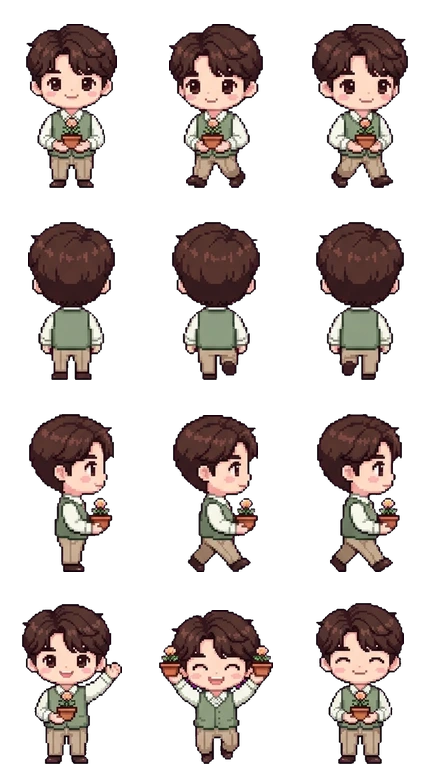
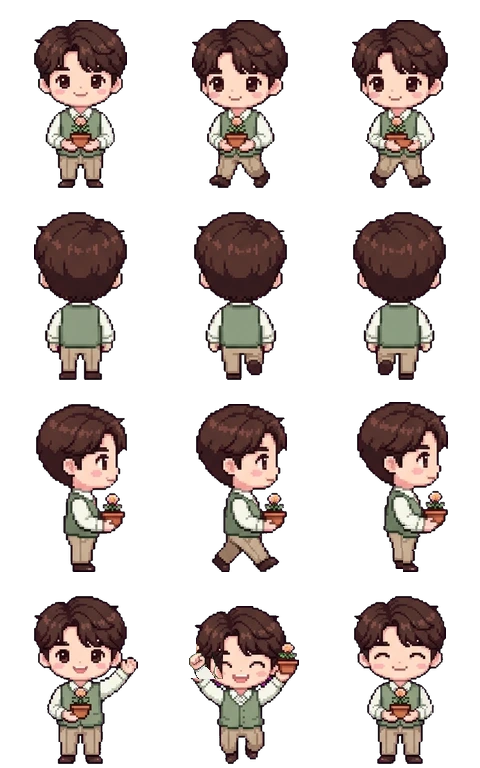
Normalize all 9 sprite sheets (108 frames) for consistent scale, head-centering, props, and alternating walk cycles

diff --git a/src/utils/spriteAnimator.ts b/src/utils/spriteAnimator.ts
@@ -241,11 +241,16 @@ export function drawCharacterSprite(
     const cellW = sheetImg.naturalWidth / SPRITE_SHEET_COLS;
     const cellH = sheetImg.naturalHeight / SPRITE_SHEET_ROWS;
     const drawRow = useActionRow ? 3 : row;
-    const drawH = targetH;
+    // All v2 normalized sheets place the visible character at ~87.5% of cell height (4px bottom pad, ~20px top pad).
+    // Compensate slightly so visible character height matches targetH and crown/nameplate anchors hug the real head top!
+    const visibleFillRatio = cellH >= 180 ? 168 / cellH : 124 / cellH;
+    const bottomPadRatio = 4 / cellH;
+    const drawH = Math.round(targetH / visibleFillRatio);
     const drawW = Math.round((drawH * cellW) / cellH);
+    const footPadPx = Math.round(drawH * bottomPadRatio);
 
     ctx.save();
-    ctx.translate(Math.round(footX), Math.round(footY - jumpLift));
+    ctx.translate(Math.round(footX), Math.round(footY + footPadPx - jumpLift));
     ctx.scale(flipX * scaleX, scaleY);
     if (tilt !== 0) ctx.rotate(tilt);
     ctx.drawImage(
@@ -260,7 +265,7 @@ export function drawCharacterSprite(
       drawH
     );
     ctx.restore();
-    return { drawTopY: footY - drawH - jumpLift, jumpLift };
+    return { drawTopY: footY - targetH - jumpLift, jumpLift };
   }
 
   // Graceful fallback to static single sprite while sheet loads
